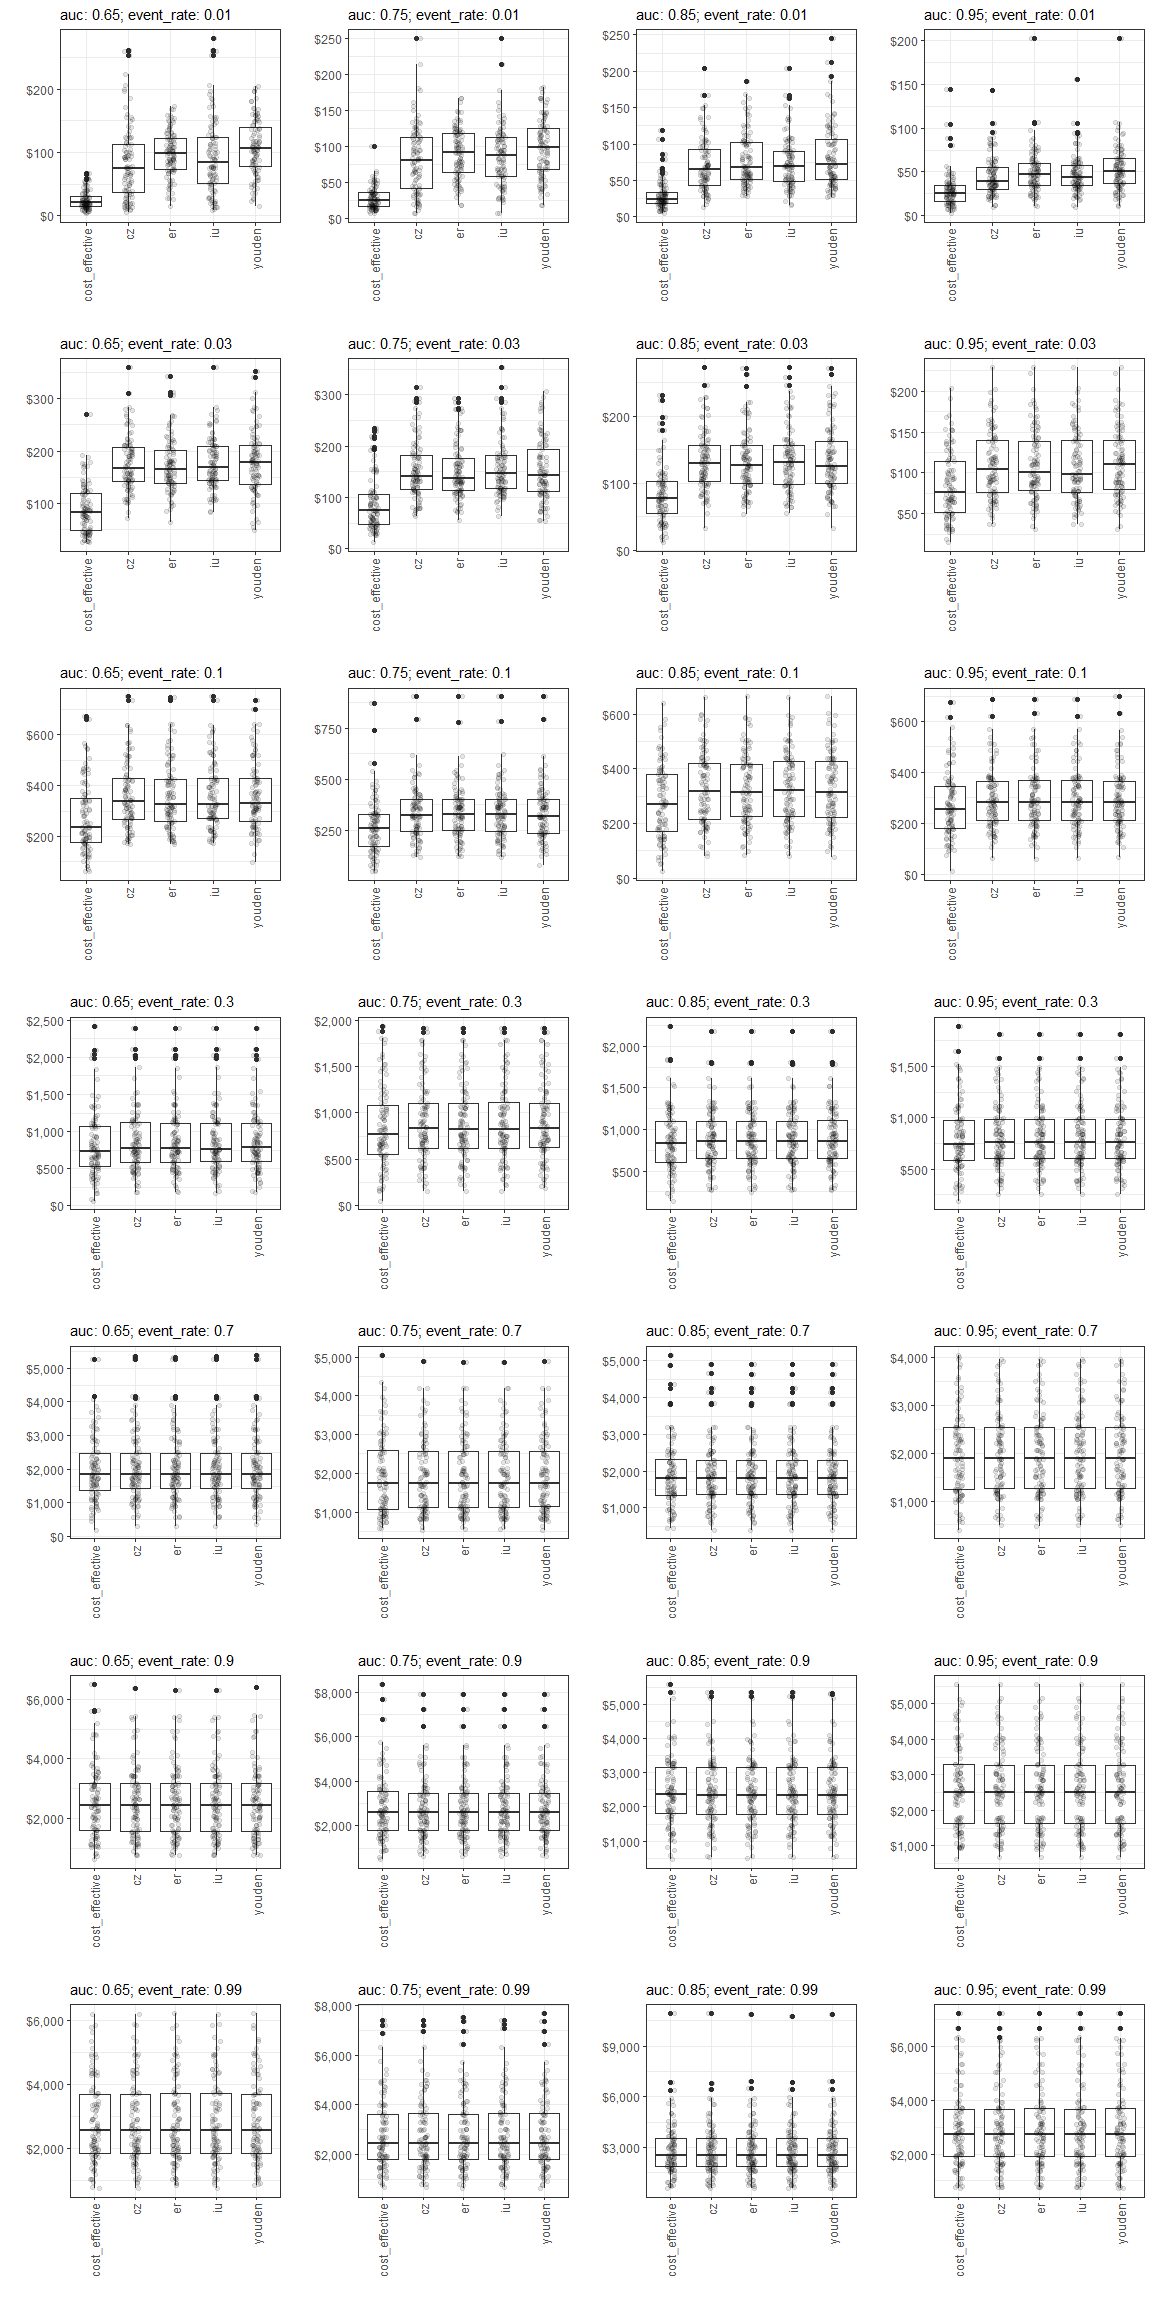
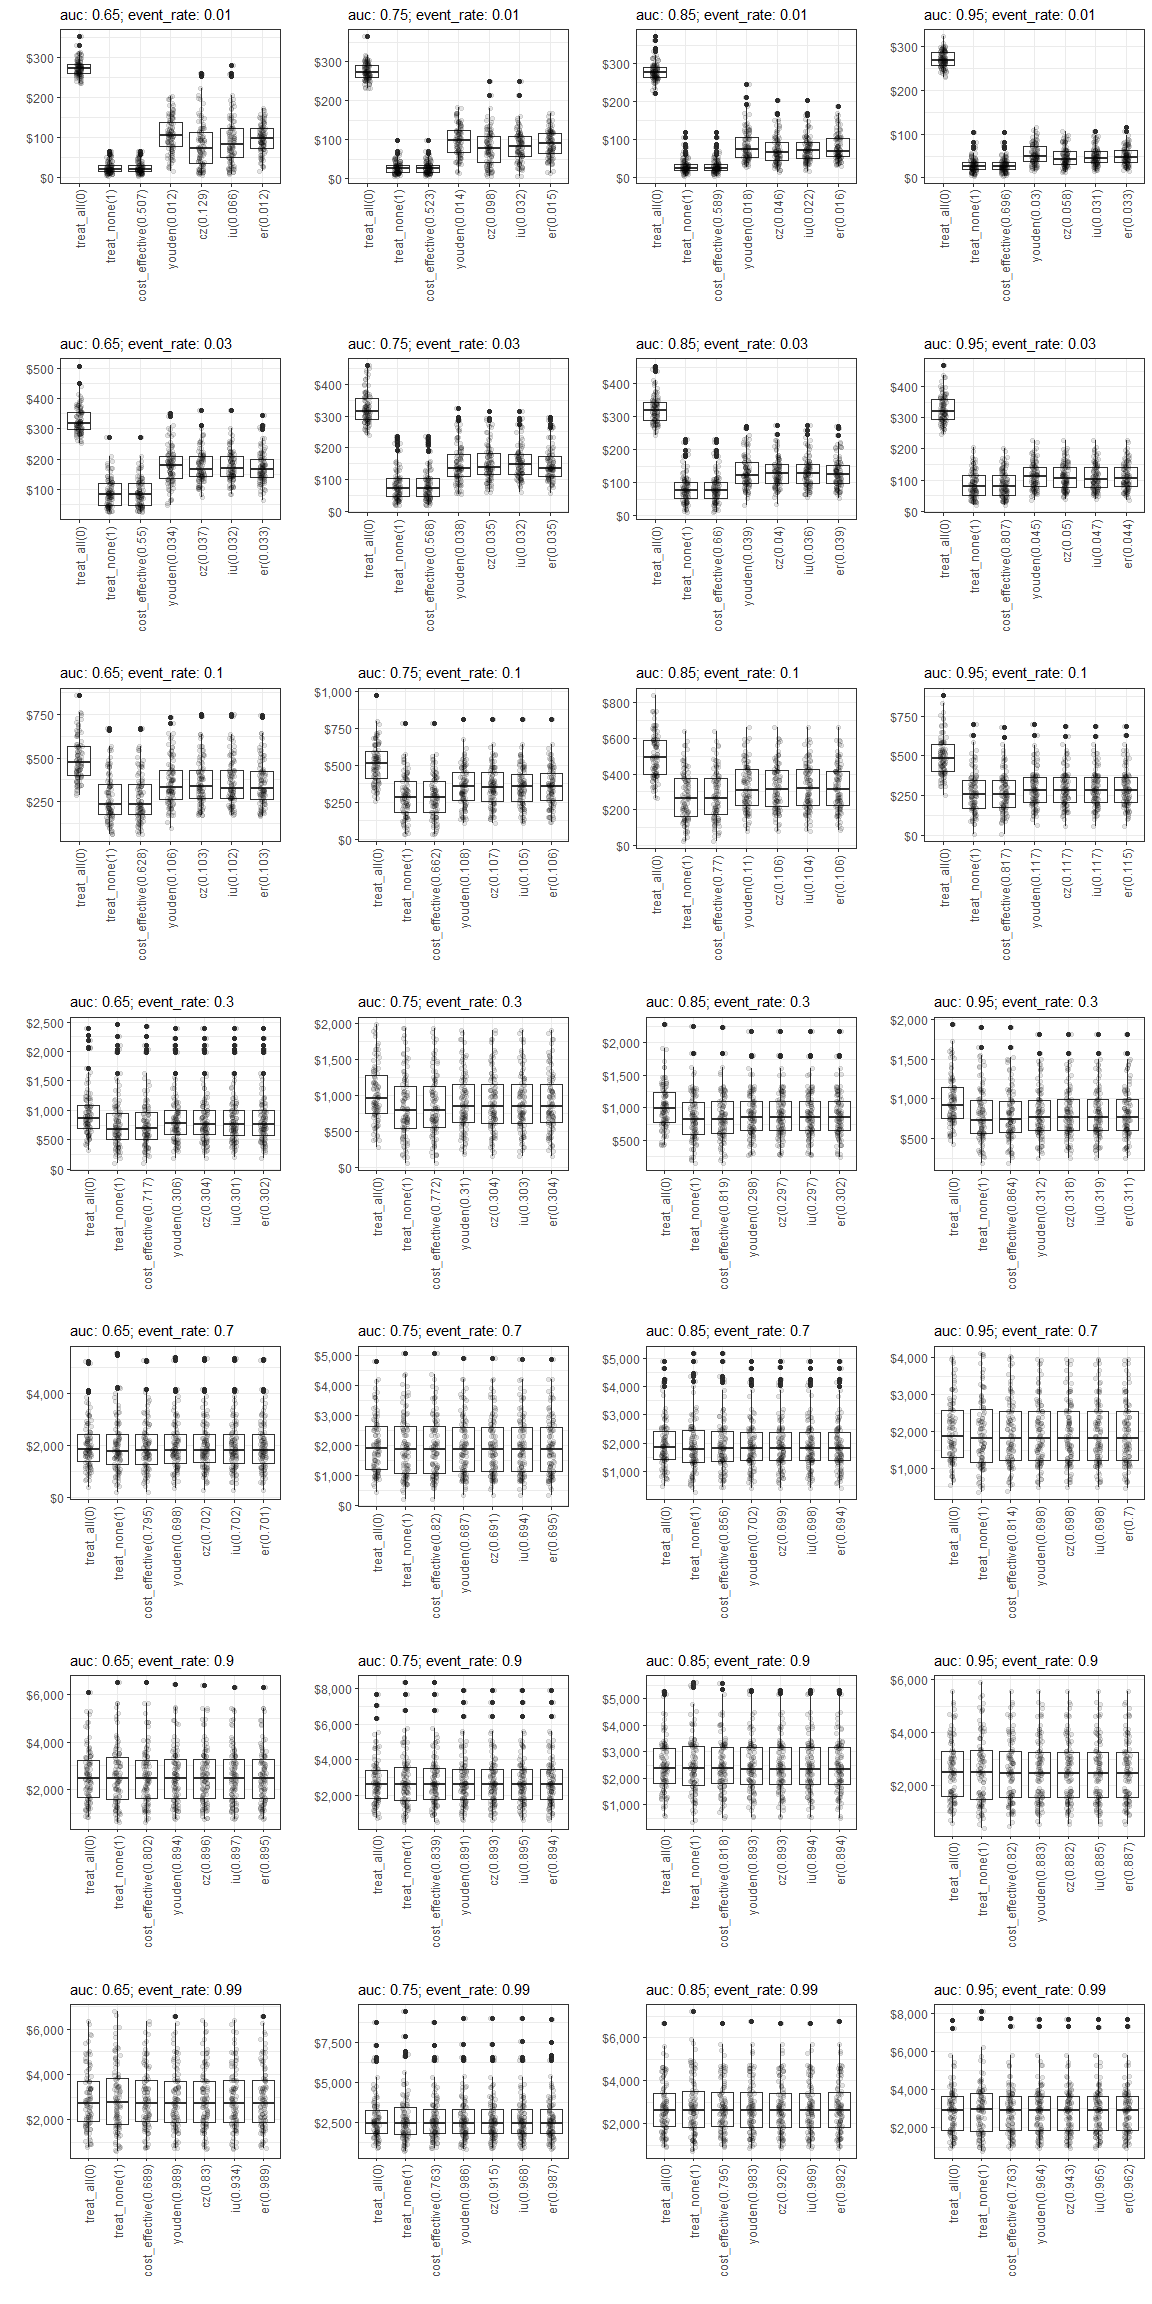
add treat all and treat none to evaluated methods, and show Pt in plots.

diff --git a/experiment_1.md b/experiment_1.md
@@ -9,27 +9,27 @@ versus costs-based selection. (Hospital falls as a use case.)
 1.  Define costs of a TP, TN, FP, FN of falls classification (option to
     move this into the loop where costs are sampled from a distributions
     to account for uncertainty in their estimates in the literature)
-      - FP have cost of applying intervention
-      - FN have cost of patient fall
-      - TP have cost of intervention + cost of fall\*(1-effectiveness of
+    -   FP have cost of applying intervention
+    -   FN have cost of patient fall
+    -   TP have cost of intervention + cost of fall\*(1-effectiveness of
         intervention on rate of falls)
-      - TN are cost $0
+    -   TN are cost $0
 2.  Select appropriate AUC (\~0.75?) and prevalence (\~3% ) for
     comparable clinical prediction model for falls.
 3.  For sample sizes (N) in \[100, 500, 1000\]: (repeat 500 times at
     each sample size)
-      - Get training data by sampling observed predictor values and
+    -   Get training data by sampling observed predictor values and
         outcome by transforming AUC into Cohens’ D and sampling from two
         normal distributions, the first (negative events) with mean=0
         and the second (positive events) with mean=Cohens’D. (Both with
         sd=1.)
-      - Fit a logistic regression model using this sampled data.
-      - Fit predicted probabilities to the training data and use these
+    -   Fit a logistic regression model using this sampled data.
+    -   Fit predicted probabilities to the training data and use these
         to obtain probability thresholds using each method.
-      - Get validation data using the same approach but with n=1000.
-      - Use the previously fit model to estimate probabilities for
+    -   Get validation data using the same approach but with n=1000.
+    -   Use the previously fit model to estimate probabilities for
         validation data.
-      - Evaluate the thresholds selected using the training data on the
+    -   Evaluate the thresholds selected using the training data on the
         validation data, in terms of mean cost per patient.
 4.  Measure differences in NMB on validation sample dependent on use of
     currently available methods and cost-based approach to determine
@@ -83,87 +83,104 @@ get_costs()
 ### Run simulation
 
 ``` r
-do_simulation <- function(sample_sizes, n_sims, n_valid, sim_auc, event_rate, fx_costs, get_what=c("data", "plot")){
-  df_result <- data.frame(
-    train_sample_size=c(), n_sim=c(), youden_cost=c(), cost_effective_cost=c(),
-    cz_cost=c(), iu_cost=c(), er_cost=c()
-  )
+do_simulation <- function(sample_size, n_sims, n_valid, sim_auc, event_rate, fx_costs, get_what=c("data", "plot")){
+  df_result <- data.frame()
+  df_thresholds <- data.frame()
   
-  for(n in sample_sizes){
-    i <- 0
-    while(i < n_sims){
-      train_sample <- get_sample(auc=sim_auc, n_samples=n, prevalence=event_rate)
-      valid_sample <- get_sample(auc=sim_auc, n_samples=n_valid, prevalence=event_rate)
-      if(length(unique(train_sample$actual))!=2 | length(unique(valid_sample$actual))!=2){
-        next
-      }
-      i <- i + 1
-      model <- glm(actual~predicted, data=train_sample, family=binomial())
-      train_sample$predicted <- predict(model, type="response")
-  
-      
-      valid_sample$predicted <- predict(model, type="response", newdata=valid_sample)
-      
-      cost_vector <- fx_costs()
-      
-      thresholds <- get_thresholds(
-        predicted=train_sample$predicted, 
-        actual=train_sample$actual,
-        costs=cost_vector
-      )
-      
-      youden_mean_cost <- classify_samples(
+  i <- 0
+  while(i < n_sims){
+    train_sample <- get_sample(auc=sim_auc, n_samples=sample_size, prevalence=event_rate)
+    valid_sample <- get_sample(auc=sim_auc, n_samples=n_valid, prevalence=event_rate)
+    if(length(unique(train_sample$actual))!=2 | length(unique(valid_sample$actual))!=2){
+      next
+    }
+    i <- i + 1
+    model <- glm(actual~predicted, data=train_sample, family=binomial())
+    train_sample$predicted <- predict(model, type="response")
+
+    
+    valid_sample$predicted <- predict(model, type="response", newdata=valid_sample)
+    
+    cost_vector <- fx_costs()
+    
+    thresholds <- get_thresholds(
+      predicted=train_sample$predicted, 
+      actual=train_sample$actual,
+      costs=cost_vector
+    )
+    
+    youden_mean_cost <- classify_samples(
+      predicted=valid_sample$predicted,
+      actual=valid_sample$actual,
+      pt=thresholds$pt_youden,
+      costs=cost_vector
+    )
+    
+    cost_vector <- fx_costs()
+    
+    cost_threshold <- function(pt){
+      classify_samples(
         predicted=valid_sample$predicted,
         actual=valid_sample$actual,
-        pt=thresholds$pt_youden,
+        pt=pt,
         costs=cost_vector
-      )
-      
-      cost_vector <- fx_costs()
-      
-      cost_threshold <- function(pt){
-        classify_samples(
-          predicted=valid_sample$predicted,
-          actual=valid_sample$actual,
-          pt=pt,
-          costs=cost_vector
-        )
-      }
-      
-      cost_effective_mean_cost <- classify_samples(
-        predicted=valid_sample$predicted,
-        actual=valid_sample$actual,
-        pt=thresholds$pt_cost_effective,
-        costs=cost_vector
-      )
-      
-      cost_effective_mean_cost <- classify_samples(
-        predicted=valid_sample$predicted,
-        actual=valid_sample$actual,
-        pt=thresholds$pt_cost_effective,
-        costs=cost_vector
-      )
-      
-      df_result <- rbind(
-        df_result, 
-        data.frame(
-          train_sample_size=n, 
-          n_sim=i, 
-          youden_cost=cost_threshold(thresholds$pt_youden), 
-          cost_effective_cost=cost_threshold(thresholds$pt_cost_effective),
-          cz_cost=cost_threshold(thresholds$pt_cz), 
-          er_cost=cost_threshold(thresholds$pt_er), 
-          iu_cost=cost_threshold(thresholds$pt_iu)
-        )
       )
     }
+    
+    cost_effective_mean_cost <- classify_samples(
+      predicted=valid_sample$predicted,
+      actual=valid_sample$actual,
+      pt=thresholds$pt_cost_effective,
+      costs=cost_vector
+    )
+    
+    cost_effective_mean_cost <- classify_samples(
+      predicted=valid_sample$predicted,
+      actual=valid_sample$actual,
+      pt=thresholds$pt_cost_effective,
+      costs=cost_vector
+    )
+    
+    df_result <- rbind(
+      df_result, 
+      data.frame(
+        n_sim=i, 
+        treat_all=cost_threshold(0),
+        treat_none=cost_threshold(1),
+        cost_effective_cost=cost_threshold(thresholds$pt_cost_effective),
+        youden_cost=cost_threshold(thresholds$pt_youden), 
+        cz_cost=cost_threshold(thresholds$pt_cz), 
+        iu_cost=cost_threshold(thresholds$pt_iu),
+        er_cost=cost_threshold(thresholds$pt_er)
+        
+      )
+    )
+    
+    df_thresholds <- rbind(
+      df_thresholds, 
+      data.frame(
+        n_sim=i, 
+        treat_all=0,
+        treat_none=1,
+        cost_effective_pt=thresholds$pt_cost_effective,
+        youden_pt=thresholds$pt_youden, 
+        cz_pt=thresholds$pt_cz,
+        iu_pt=thresholds$pt_iu,
+        er_pt=thresholds$pt_er
+      )
+    )
   }
   
+  pts <- round(colMeans(df_thresholds)[-1], 3)
+  df_plot <- df_result
+  names(df_plot)[-1] <- method_levels <- paste0(names(df_plot)[-1], "(", pts, ")")
+  
   p <- 
-    df_result %>%
-    select(-n_sim) %>%
-    pivot_longer(!train_sample_size, names_to="method", values_to="cost") %>%
-    mutate(method=str_remove(method, "_cost")) %>%
+    df_plot %>%
+    pivot_longer(!n_sim, names_to="method", values_to="cost") %>%
+    mutate(method=str_remove(method, "_cost"),
+           method=factor(method, levels=str_remove(method_levels, "_cost"))) %>%
+    
     ggplot(aes(method, cost)) +
     geom_boxplot() +
     geom_jitter(alpha=0.1, width=0.1) +
@@ -177,10 +194,6 @@ do_simulation <- function(sample_sizes, n_sims, n_valid, sim_auc, event_rate, fx
     scale_y_continuous(labels=scales::dollar_format()) +
     theme(axis.text.x = element_text(angle = 90, vjust = 0.5, hjust=1))
   
-  if(length(sample_sizes)>1){
-    p <- p + facet_wrap(~train_sample_size)
-  }
-  
   if(length(get_what)==1){
     if(get_what=="data"){return(df_result)}
     if(get_what=="plot"){return(p)}
@@ -188,9 +201,10 @@ do_simulation <- function(sample_sizes, n_sims, n_valid, sim_auc, event_rate, fx
     return(list(data=df_result, plot=p))
   }
 }
-# do_simulation(sample_sizes=500, n_sims=100, n_valid=1000, sim_auc=0.65, event_rate=0.03, fx_costs=get_costs, get_what=c("data", "plot"))
 
-# p_list <- lapply(c(0.03, 0.1, 0.5, 0.9, 0.97), function(x)do_simulation(sample_sizes=500, n_sims=100, n_valid=1000, sim_auc=0.65, event_rate=x, fx_costs=get_costs, get_what="plot"))
+# do_simulation(sample_size=500, n_sims=20, n_valid=1000, sim_auc=0.65, event_rate=0.03, fx_costs=get_costs, get_what=c("data", "plot"))
+
+# p_list <- lapply(c(0.03, 0.1, 0.5, 0.9, 0.97), function(x)do_simulation(sample_size=500, n_sims=100, n_valid=1000, sim_auc=0.65, event_rate=x, fx_costs=get_costs, get_what="plot"))
 # p_list
 ```
 
@@ -214,7 +228,7 @@ out <- map2(
   .x=g$sim_auc, .y=g$event_rate, 
   function(.x, .y) 
     do_simulation(
-      sample_sizes=500, n_sims=100, n_valid=1000, 
+      sample_size=500, n_sims=100, n_valid=1000, 
       sim_auc=.x, event_rate=.y, fx_costs=get_costs, get_what="plot"
     )
 )
